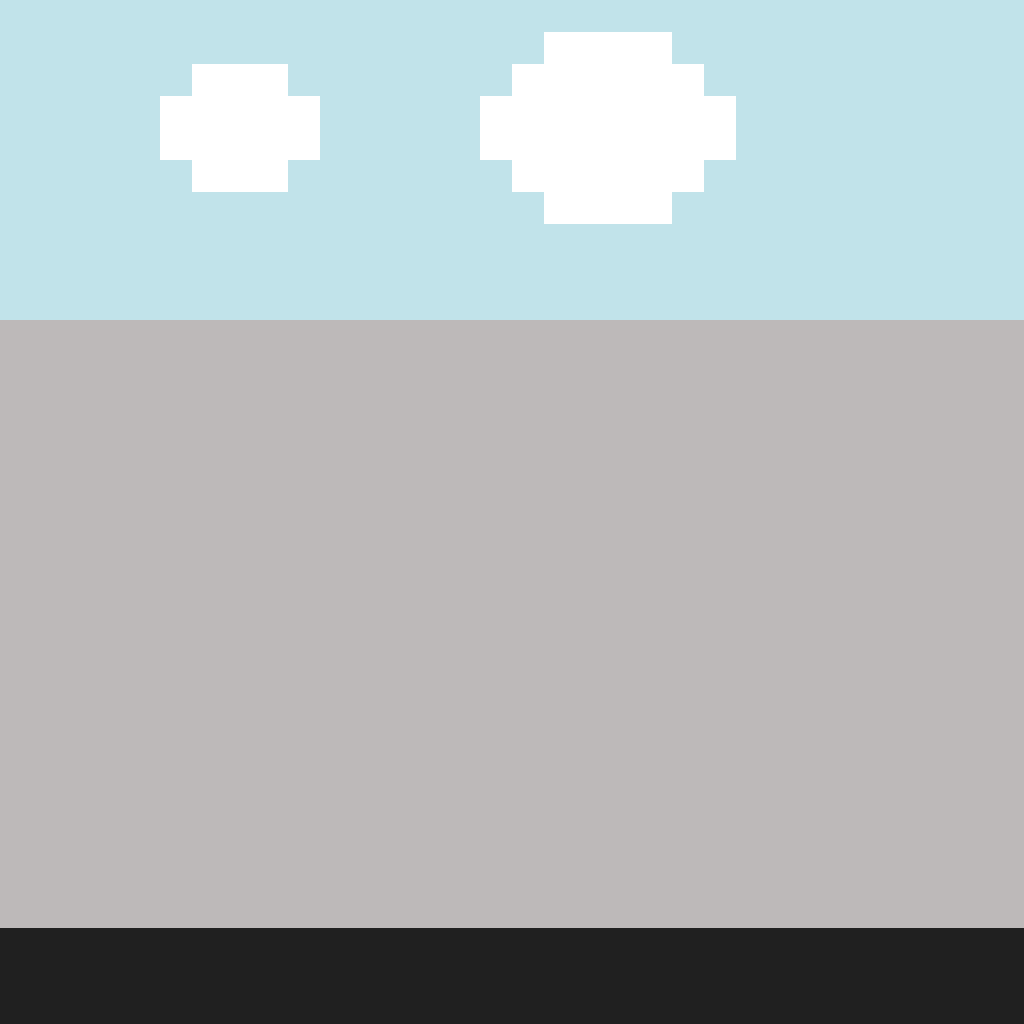
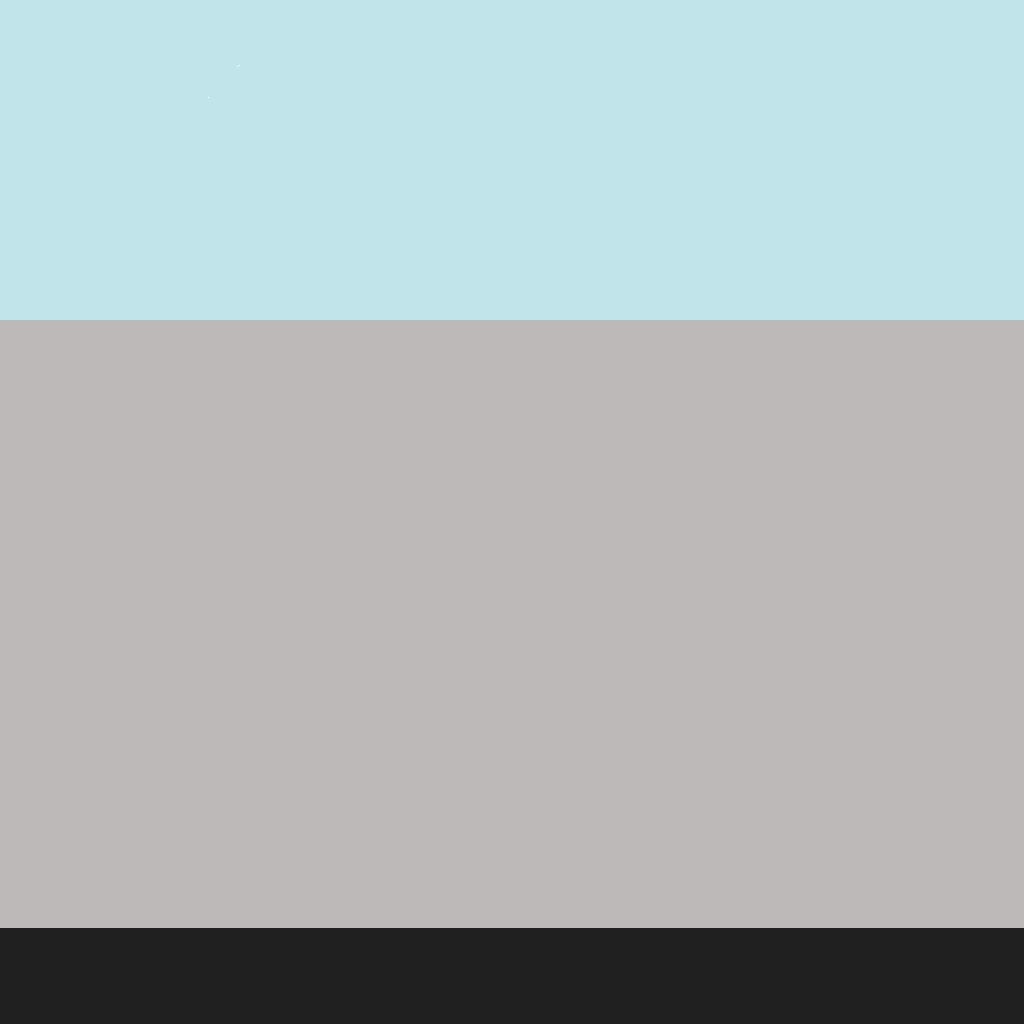
ajout nuage

Changed region(s): [[0.4688, 0.0312, 0.7188, 0.2188], [0.1562, 0.0625, 0.3125, 0.1875]]

diff --git a/app.js b/app.js
@@ -48,6 +48,7 @@ idIntervalVitesse = 0;
 idAjoutpiece = 0;
 idAjoutzap = 0;
 idAjoutrocket = 0;
+idAjoutNuage = 0;
 
 const config = {
   type: Phaser.AUTO,
@@ -94,12 +95,17 @@ function preload() {
   this.load.image("ground", "./assets/ground.png");
   this.load.image("background", "./assets/background.png");
   this.load.image("rocket", "./assets/rocket.png");
+  this.load.image("nuage", "./assets/nuage.png");
 }
 
 function create() {
   /* creation du background*/
-  this.add.image(game.config.width / 2, game.config.height / 2, "background");
-
+  bckgrnd = this.add.image(
+    game.config.width / 2,
+    game.config.height / 2,
+    "background"
+  );
+  bckgrnd.setDepth(-1);
   /*Creation sol*/
   ground = this.physics.add.image(
     game.config.width / 2 + 100,
@@ -107,6 +113,14 @@ function create() {
     "ground"
   );
   ground.setCollideWorldBounds(true);
+  /*creation des nuages */
+  clouds = this.physics.add.group();
+  cloud = clouds.create(400, 100, "nuage");
+  cloud.setVelocityX(Vitesse / 3);
+  cloud.body.allowGravity = false;
+  cloud = clouds.create(800, 150, "nuage");
+  cloud.setVelocityX(Vitesse / 3);
+  cloud.body.allowGravity = false;
   /* creation des fusee*/
   fusee = this.physics.add.group();
   /*creation des briques*/
@@ -140,7 +154,7 @@ function create() {
   );
   Barry.body.collideWorldBounds = true;
   Barry.anims.play("barryCours");
-  Barry.setBodySize(45, 65);
+  Barry.setBodySize(45, 70);
 
   /*zapper*/
   zap = this.physics.add.group();
@@ -168,7 +182,7 @@ function create() {
     this.scene.pause(); // on attend le lancement avec le bouton start
     commencer.addEventListener("click", () => {
       document.getElementsByClassName("menuDepart")[0].style.display = "none";
-      this.scene.resume(); //relance le jeu
+      this.scene.restart(); //relance le jeu
     });
     premierLancement = false;
   }
@@ -176,10 +190,12 @@ function create() {
   clearInterval(idAjoutpiece);
   clearInterval(idAjoutzap);
   clearInterval(idAjoutrocket);
+  clearInterval(idAjoutNuage);
   idIntervalVitesse = setInterval(AugmenterVitesse, 3000);
-  idAjoutpiece = setInterval(ajoutPieces, 9000);
-  idAjoutzap = setInterval(ajoutZapper, 7000);
+  idAjoutpiece = setInterval(ajoutPieces, 7900);
+  idAjoutzap = setInterval(ajoutZapper, 7750);
   idAjoutrocket = setInterval(ajoutRocket, 4000);
+  idAjoutNuage = setInterval(ajoutNuage, 6000);
 }
 
 function update() {
@@ -219,6 +235,17 @@ function gameOver() {
     document.getElementsByClassName("menuFin")[0].style.display = "none";
     this.scene.restart(); //relance le jeu
   });
+}
+function ajoutNuage() {
+  if (present) {
+    let tmpalnuage = Math.random() * 10;
+    if (parseInt(tmpalnuage, 10) % 2 == 0)
+      cloud = clouds.create(game.config.width + 100, 100, "nuage");
+    else cloud = clouds.create(game.config.width + 100, 150, "nuage");
+    cloud.body.allowGravity = false;
+    cloud.setVelocityX(Vitesse / 3);
+    cloud.setDepth(-1);
+  }
 }
 
 function ajoutZapper() {
